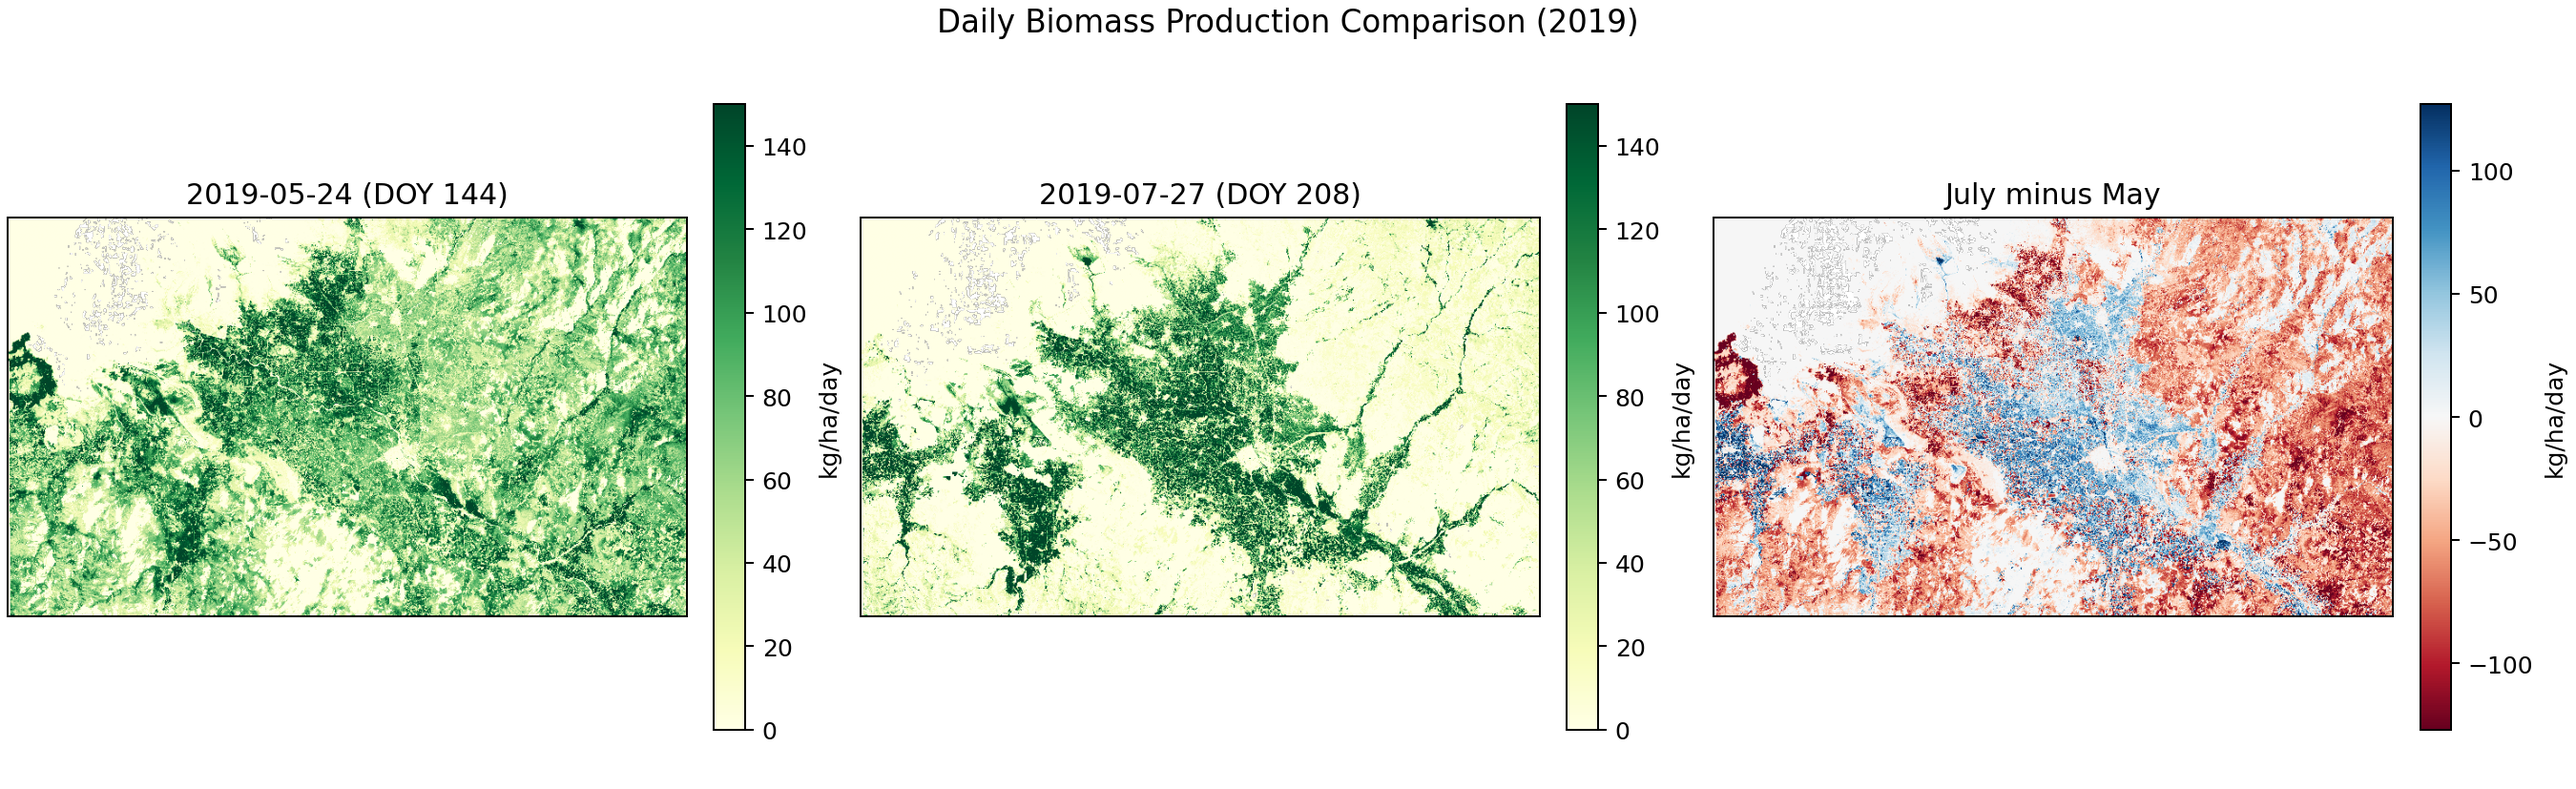
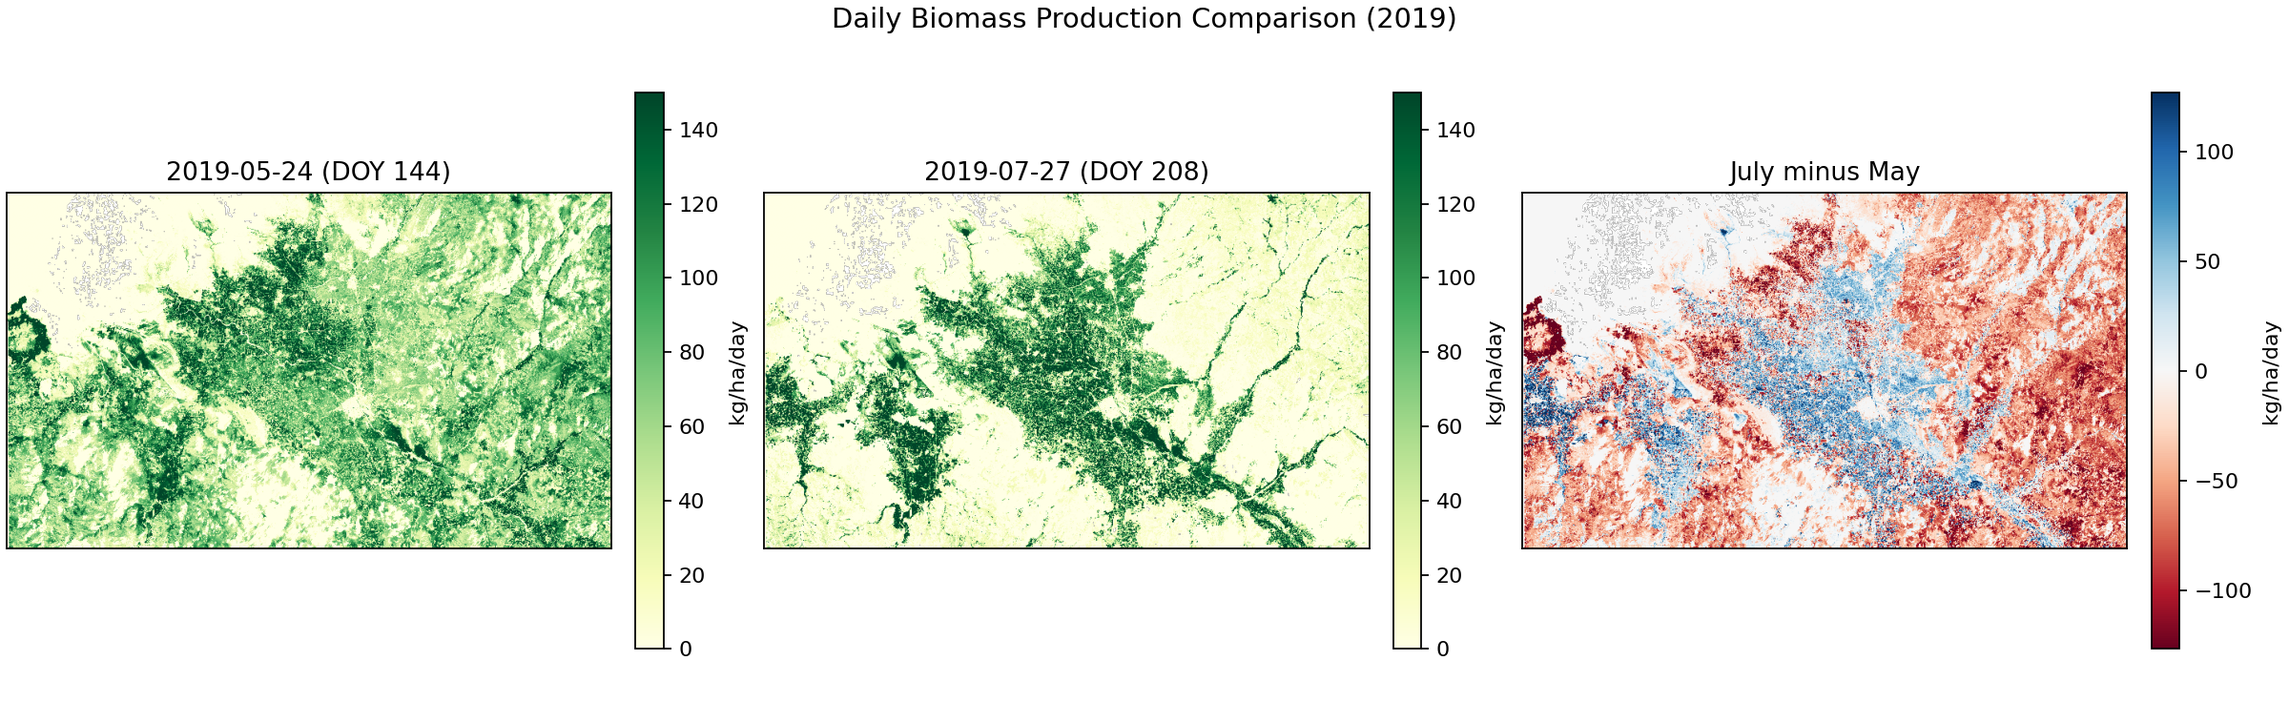
Write comparison preview plots directly to docs/figures for README

diff --git a/src/05_plot_comparison.py b/src/05_plot_comparison.py
@@ -62,9 +62,9 @@ def make_pair_plot(
 
     fig.suptitle(f"{title} Comparison (2019)", fontsize=13)
     out_png.parent.mkdir(parents=True, exist_ok=True)
-    fig.savefig(str(out_png), dpi=180)
+    fig.savefig(str(out_png), dpi=160)
     plt.close(fig)
-    print(f"Saved figure: {out_png}")
+    print(f"Saved preview figure: {out_png}")
 
 
 def main() -> None:
@@ -72,7 +72,7 @@ def main() -> None:
     ap.add_argument("--config", default="config/config.yaml")
     cfg = yaml.safe_load(Path(ap.parse_args().config).read_text(encoding="utf-8")) or {}
     out_base = Path(cfg.get("paths", {}).get("outputs", "data/outputs"))
-    fig_dir = out_base / "postprocessed" / "figures"
+    fig_dir = Path("docs/figures")
     fig_dir.mkdir(parents=True, exist_ok=True)
 
     pairs = [
